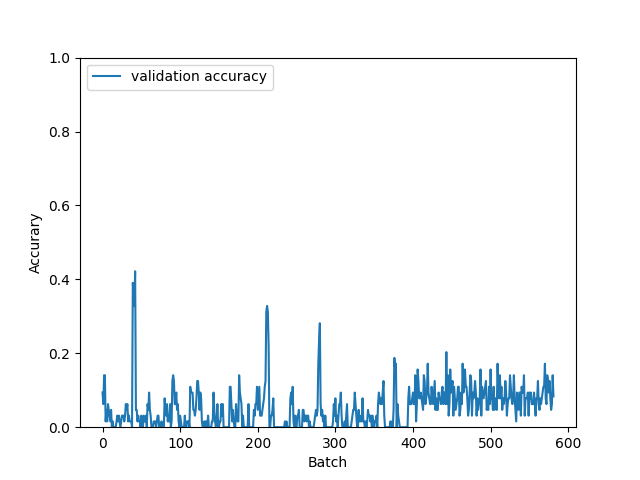
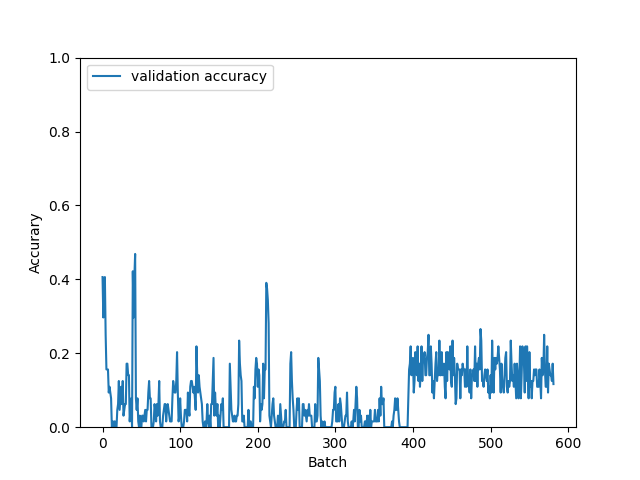
better model with dropout

Changed region(s): [[0.1562, 0.5312, 0.875, 0.9062]]

diff --git a/deep_learning/model.py b/deep_learning/model.py
@@ -7,8 +7,6 @@ import torchvision.models as models
 class FoodClassifier(nn.Module):
   def __init__(self, n_classes):
     super(FoodClassifier, self).__init__()
-
-    # number of classes/foods
     self.n_classes = n_classes
 
     # Convolutional Layers (Feature Detector)
@@ -22,11 +20,11 @@ class FoodClassifier(nn.Module):
     #self.conv4 = nn.Conv2d(256, 512, 5)
     #self.conv2_bn4 = nn.BatchNorm2d(512)
 
+    self.dropout = nn.Dropout(0.5)
+
     # Fully Connected Layers (Classifier)
     self.fc1 = nn.Linear(256 * 12 * 12, 512)
     self.bn1 = nn.BatchNorm1d(num_features=512)
-    #self.fc2 = nn.Linear(4096, 4096)
-    #self.bn2 = nn.BatchNorm1d(num_features=4096)
     self.fc2 = nn.Linear(512, self.n_classes)
 
   def forward(self, x):
@@ -37,9 +35,8 @@ class FoodClassifier(nn.Module):
     #print(x.shape)
     x = x.view(-1, self.num_flat_features(x))
     x = F.relu(self.bn1(self.fc1(x)))
-    #x = F.relu(self.bn2(self.fc2(x)))
-    #x = F.softmax(self.fc3(x))
-    x = self.fc2(x) # NOTE: don't forget to use softmax in deployment (in training CrossEntropy already applies softmax)
+    x = self.dropout(x)
+    x = self.fc2(x)
     return x
 
   def num_flat_features(self, x):
